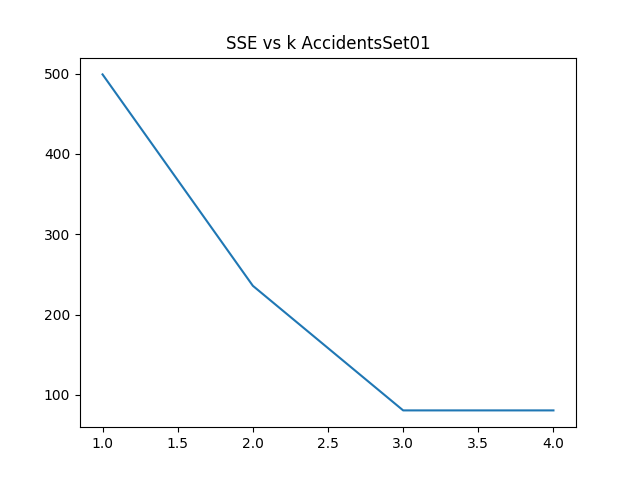
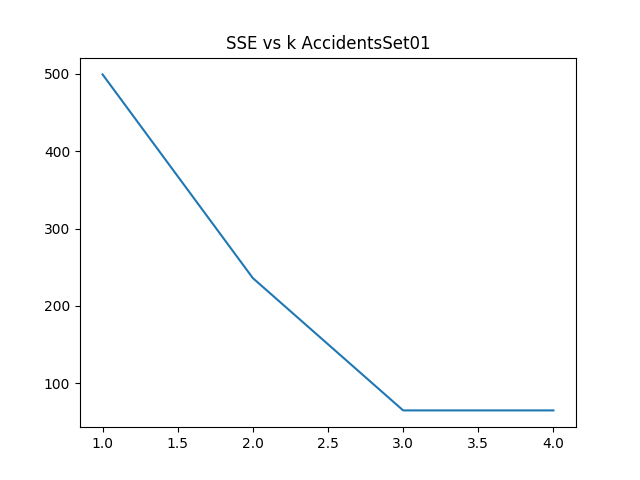
fixes: kmeans

diff --git a/kmeans.py b/kmeans.py
@@ -7,8 +7,10 @@ import numpy as np
 import pandas as pd
 
 import constants as c
-from utils import drop_df
-# TODO: ACCIDENTS_3 has a comma at the end of every row, which messes things up for that dataset
+from constants import KMEANS_CENTROID_THRESHOLD
+from utils import drop_df, strip_file_path
+
+
 from utils import get_euclidean_distances, plot_clusters, parse_csv, get_max_dist, \
     get_min_dist, get_avg_dist, get_sse, evaluate_clusters
 
@@ -22,7 +24,6 @@ def shuffle(df: pd.DataFrame) -> np.ndarray:
     return res
 
 
-# TODO: think about whether it's better to return a dataframe so that row_ids are passed along
 def select_centroids_smart(df: pd.DataFrame, k: int, get_dist=get_euclidean_distances) -> np.ndarray:
     points = pd.DataFrame(df.mean(axis=0)).T
     i = 1
@@ -42,11 +43,11 @@ def select_centroids_rand(df: pd.DataFrame, k: int) -> np.ndarray:
     return res[:k]
 
 
-def check_centroid_change(old_centroids, new_centroids, threshold):
+def check_centroid_change(old_centroids, new_centroids):
     if len(new_centroids) == 0:
         return False
     change = abs((old_centroids - new_centroids).sum())
-    return math.sqrt(change) < threshold
+    return math.sqrt(change) < KMEANS_CENTROID_THRESHOLD
 
 
 def check_num_reassignments(clusters, old_clusters):
@@ -63,19 +64,25 @@ def check_num_reassignments(clusters, old_clusters):
     return num_reassignments < 2
 
 
-def check_sse_change(old_clusters, new_clusters, old_centroids, new_centroids):
+def check_sse_change(old_clusters, new_clusters, old_centroids, new_centroids, threshold):
     if old_clusters is None:
         return False
     old_sse = np.array([get_sse(old_clusters[i], old_centroids[i]) for i in range(len(old_clusters))]).sum()
     new_sse = np.array([get_sse(new_clusters[i], new_centroids[i]) for i in range(len(new_centroids))]).sum()
     change = new_sse - old_sse
-    return change < 0 and change / old_sse < 0.005
+    return abs(change) / old_sse < threshold
 
 
 def is_stopping_condition(old_clusters, new_clusters, old_centroids, new_centroids, threshold):
     num_reassigns = check_num_reassignments(new_clusters, old_clusters)
-    change_centroids = check_centroid_change(old_centroids, new_centroids, threshold)
-    sse_chng = check_sse_change(old_clusters, new_clusters, old_centroids, new_centroids)
+    change_centroids = check_centroid_change(old_centroids, new_centroids)
+    sse_chng = check_sse_change(old_clusters, new_clusters, old_centroids, new_centroids, threshold)
+    if num_reassigns:
+        print('reassign\n')
+    elif change_centroids:
+        print('centroids\n')
+    elif sse_chng:
+        print('sse change\n')
     return change_centroids or num_reassigns or sse_chng
 
 
@@ -103,14 +110,15 @@ def kmeans(df: pd.DataFrame, k: int, threshold=None, select_centroids=select_cen
 
 
 def test():
-    fn = c.ACCIDENTS_1
+    fn = c.PLANETS
     df, class_id = parse_csv(fn)
     k = c.ks[fn]
-    threshold = 1
-    clusters, centroids = kmeans(df, k, threshold, get_dist=get_euclidean_distances)
+    threshold = c.KMEANS_SSE_THRESHOLD
+    clusters, centroids = kmeans(df, k, threshold)
+    sfn = strip_file_path(fn)
     if 2 <= clusters[0].shape[1] <= 4:
-        plot_clusters([df], np.array([df.mean().values]), f'kmeans {fn}')
-        plot_clusters(clusters, centroids, f'kmeans clustered {fn}')
+        plot_clusters([df], np.array([df.mean().values]), f'kmeans {sfn}')
+        plot_clusters(clusters, centroids, f'kmeans clustered {sfn}')
     for i, cluster in enumerate(clusters):
         print()
         print(f'Cluster {i + 1}')
@@ -131,7 +139,7 @@ def main():
     if len(sys.argv) >= 4:
         threshold = float(sys.argv[3])
     else:
-        threshold = None
+        threshold = c.KMEANS_SSE_THRESHOLD
     if len(sys.argv) >= 3:
         fn = sys.argv[1]
         k = int(sys.argv[2])
@@ -144,12 +152,13 @@ def main():
     totals = results.sum()
     totals.name = 'totals'
     results = results.append(totals)
+    sfn = strip_file_path(fn)
     print('\nSummary')
     print(results)
     if 2 <= clusters[0].shape[1] <= 3:
-        plot_clusters([df], np.array([df.mean().values]), f'kmeans {fn}')
-        plot_clusters(clusters, centroids, f'kmeans clustered {fn}')
+        plot_clusters([df], np.array([df.mean().values]), f'kmeans {sfn}')
+        plot_clusters(clusters, centroids, f'kmeans clustered {sfn}')
 
 
 if __name__ == "__main__":
-    main()
+    test()

diff --git a/kmeans_tuning.py b/kmeans_tuning.py
@@ -1,6 +1,7 @@
 import constants as c
 from kmeans import kmeans, select_centroids_rand
 from utils import *
+from utils import strip_file_path
 
 DSS_DK = 'dsse/dk'
 
@@ -9,7 +10,7 @@ def hyper_tune_k(df, fn):
     table = pd.DataFrame(columns=[SSE, DSS_DK])
     best_k = (df.shape[0], float('-inf'))
     for k in range(1, df.shape[0]):
-        clusters, centroids = kmeans(df, k, 1)
+        clusters, centroids = kmeans(df, k, 0.05)
         measures = evaluate_clusters(clusters, centroids)
         table = table.append(pd.DataFrame([[measures[SSE].sum(), 0]], index=[k], columns=[SSE, DSS_DK]))
         if len(table) > 1:
@@ -26,15 +27,15 @@ def hyper_tune_k(df, fn):
 
 def hyper_tune_t(df, k):
     table = pd.DataFrame(columns=[SSE])
-    for t in [(x + 1) for x in range(20)]:
+    for t in [(x + 1) * 0.05 for x in range(20)]:
         clusters, centroids = kmeans(df, k, t)
         measures = evaluate_clusters(clusters, centroids)
         curr_sse = pd.Series([measures[SSE].sum()], index=[SSE], name=t)
         table = table.append(pd.DataFrame([curr_sse]))
     min_sse = table[SSE].min()
     best = table[table[SSE] == min_sse]
-    max_t = best.index.values.max()
-    return max_t
+    min_t = best.index.values.min()
+    return min_t
 
 
 def kmeans_hyper_tuning(fn):
@@ -59,7 +60,7 @@ def print_and_plot(fn, table):
     print()
     fig, ax = plt.subplots()
     ax.plot(table.index.values, table.iloc[:, 0])
-    sfn = fn.split('/')[-1].split('.')[0]
+    sfn = strip_file_path(fn)
     ax.title.set_text(f'SSE vs k {sfn}')
     plt.savefig(f'./graphs/k_vs_sse/{sfn}')
     plt.show()

diff --git a/constants.py b/constants.py
@@ -13,8 +13,10 @@ PLANETS = PATH + 'planets.csv'
 IRIS = PATH + 'iris.csv'
 
 TWO_DIM = [FOUR_CLUSTERS, MANY_CLUSTERS, BIRTH_DEATH_RATE]
-ALL = [ACCIDENTS_1, IRIS, FOUR_CLUSTERS, ACCIDENTS_2, ACCIDENTS_3, BIRTH_DEATH_RATE, ECONOMY, MAMMALS, MANY_CLUSTERS,
-       PLANETS]
+ALL = [FOUR_CLUSTERS, BIRTH_DEATH_RATE, ECONOMY, MAMMALS, IRIS, MANY_CLUSTERS,
+       PLANETS, ACCIDENTS_1, ACCIDENTS_2, ACCIDENTS_3]
 
 ks = {FOUR_CLUSTERS: 4, ACCIDENTS_1: 3, ACCIDENTS_2: 4, ACCIDENTS_3: 4, BIRTH_DEATH_RATE: 3, ECONOMY: 4, MAMMALS: 3,
       MANY_CLUSTERS: 7, PLANETS: 3, IRIS: 3}
+KMEANS_CENTROID_THRESHOLD = 1
+KMEANS_SSE_THRESHOLD = 0.05

diff --git a/utils.py b/utils.py
@@ -175,3 +175,8 @@ def evaluate_clusters(clusters, centroids, verbose=False):
 def drop_df(df1: pd.DataFrame, df2: pd.DataFrame):
     """removes rows from df1 that are also in df2"""
     return pd.concat([df1, df2, df2]).drop_duplicates(keep=False)
+
+
+def strip_file_path(fn):
+    sfn = fn.split('/')[-1].split('.')[0]
+    return sfn
